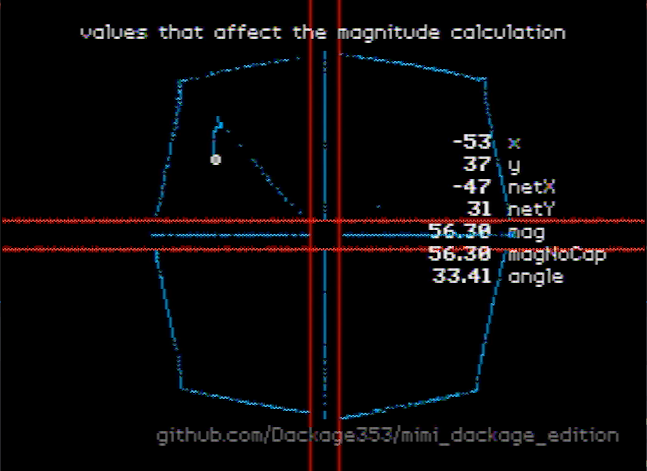
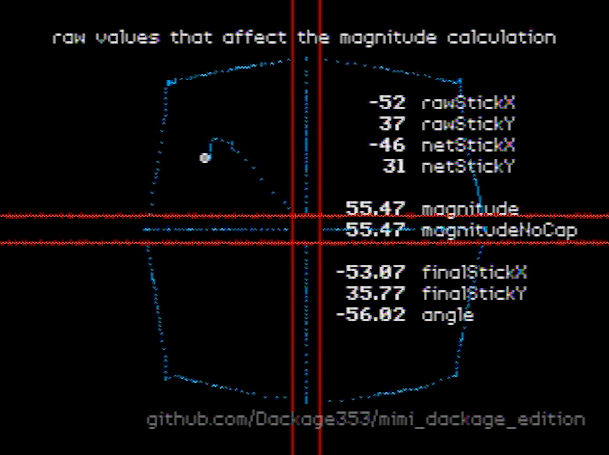
better variable names, fixed angle calculation, added finalStick values

diff --git a/src/range_live.c b/src/range_live.c
@@ -196,7 +196,7 @@ void display_sm64_magnitude_test() {
     int count = 0,
         line_height = 11,
         show_history = 1,
-        sz_history = 10240;
+        sz_history = 1024;
     text_set_line_height(line_height);
     display_context_t ctx;
 
@@ -206,7 +206,7 @@ void display_sm64_magnitude_test() {
     dfs_read(point, size, 1, f);
     dfs_close(f);
 
-    char * title_str = "values that affect the magnitude calculation";
+    char * title_str = "raw values that affect the magnitude calculation";
 
     struct Vec2 history[sz_history];
 
@@ -224,54 +224,69 @@ void display_sm64_magnitude_test() {
 
         controller_scan();
         struct controller_data cdata = get_keys_pressed();
-        char buf[128];
+        char buf[256];
 
         
-        struct Vec2 v = { cdata.c[0].x, cdata.c[0].y };
-        struct Vec2 vNoDeadZone = { cdata.c[0].x, cdata.c[0].y };
-        struct Vec2 netV = { 0, 0 };
 
-        if (vNoDeadZone.x < 8 && vNoDeadZone.x > -8) {
-            vNoDeadZone.x = 0;
+        struct Vec2 rawStick = { cdata.c[0].x, cdata.c[0].y };
+        struct Vec2 rawStickNoDeadzone = { cdata.c[0].x, cdata.c[0].y };
+        struct Vec2 netStick = { 0, 0 };
+
+        if (rawStickNoDeadzone.x < 8 && rawStickNoDeadzone.x > -8) {
+            rawStickNoDeadzone.x = 0;
         }
-        if (vNoDeadZone.y < 8 && vNoDeadZone.y > -8) {
-            vNoDeadZone.y = 0;
+        if (rawStickNoDeadzone.y < 8 && rawStickNoDeadzone.y > -8) {
+            rawStickNoDeadzone.y = 0;
         }
 
 
-        if (v.x <= -8) {
-            netV.x = v.x + 6;
+        if (rawStick.x <= -8) {
+            netStick.x = rawStick.x + 6;
         }
-        else if (v.x >= 8) {
-            netV.x = v.x - 6;
+        else if (rawStick.x >= 8) {
+            netStick.x = rawStick.x - 6;
         }
         
-        if (v.y <= -8) {
-            netV.y = v.y + 6;
+        if (rawStick.y <= -8) {
+            netStick.y = rawStick.y + 6;
         }
-        else if (v.y >= 8) {
-            netV.y = v.y - 6;
+        else if (rawStick.y >= 8) {
+            netStick.y = rawStick.y - 6;
         }
 
-        float magnitudeNoCap = sqrt(netV.x * netV.x + netV.y * netV.y);
+        float magnitudeNoCap = sqrt(netStick.x * netStick.x + netStick.y * netStick.y);
         float magnitude = magnitudeNoCap;
+
+        struct Vec2f finalStick = { 0, 0 };
+        
+        if (magnitudeNoCap > 0)
+        {
+            finalStick.x = netStick.x * 64 / magnitudeNoCap;
+            finalStick.y = netStick.y * 64 / magnitudeNoCap;
+        }
+
+
         if (magnitudeNoCap > 64.0f) { magnitude = 64.0f; }
 
-        float angle = atan2(abs(netV.y), abs(netV.x)) * 180 / M_PI;
+        float angle = get_angle(finalStick.x, finalStick.y);
 
-        snprintf(buf, sizeof(buf), "x\ny\nnetX\nnetY\nmag\nmagNoCap\nangle");
+        //rawStickX\nrawStickY\nstickXNoCap\nstickYNoCap\n\nmagnitude\nmagnitudeNoCap\n\nstickX\nstickY\nangle
+        //snprintf(buf, sizeof(buf), "%3d\n%3d\n%3d\n%3d\n\n%.2f\n%.2f\n\n%.2f\n%.2f\n%.2f", rawStick.x, rawStick.y, netStick.x, netStick.y, magnitude, magnitudeNoCap, finalStick.x, finalStick.y, angle);
+
+        snprintf(buf, sizeof(buf), "rawStickX\nrawStickY\nnetStickX\nnetStickY\n\nmagnitude\nmagnitudeNoCap\n\nfinalStickX\nfinalStickY\nangle");
         text_set_font(FONT_MEDIUM);
-        text_draw(ctx, 250, 80 - line_height, buf, ALIGN_LEFT);
+        text_draw(ctx, 220, 60 - line_height, buf, ALIGN_LEFT);
 
         text_set_font(FONT_BOLD);
-        snprintf(buf, sizeof(buf), "%3d\n%3d\n%3d\n%3d\n%.2f\n%.2f\n%.2f", v.x, v.y, netV.x, netV.y, magnitude, magnitudeNoCap, angle);
-        text_draw(ctx, 242, 80 - line_height, buf, ALIGN_RIGHT);
+        snprintf(buf, sizeof(buf), "%3d\n%3d\n%3d\n%3d\n\n%.2f\n%.2f\n\n%.2f\n%.2f\n%.2f", rawStick.x, rawStick.y, netStick.x, netStick.y, magnitude, magnitudeNoCap, finalStick.x, finalStick.y, angle);
+        text_draw(ctx, 212, 60 - line_height, buf, ALIGN_RIGHT);
 
+        
 
         if (show_history == 1) {
             int history_update = 0;
-            bool hasChanged = v.x != history[0].x || v.y != history[0].y;
-            bool isNotInDeadzone = abs(v.x) >= 8 || abs(v.y) >= 8;
+            bool hasChanged = rawStick.x != history[0].x || rawStick.y != history[0].y;
+            bool isNotInDeadzone = abs(rawStick.x) >= 8 || abs(rawStick.y) >= 8;
 
             if (hasChanged && isNotInDeadzone) {
                 history_update = 1;
@@ -279,7 +294,7 @@ void display_sm64_magnitude_test() {
                     count++;
                 }
 
-                history[0] = vNoDeadZone;
+                history[0] = rawStickNoDeadzone;
             }
 
             for (int i = count; i > 0; i--) {
@@ -290,8 +305,8 @@ void display_sm64_magnitude_test() {
             }
         }
 
-        int x = smax(0, smin(320, vNoDeadZone.x + 158));
-        int y = smax(0, smin(240, (vNoDeadZone.y * -1) + 118));
+        int x = smax(0, smin(320, rawStickNoDeadzone.x + 158));
+        int y = smax(0, smin(240, (rawStickNoDeadzone.y * -1) + 118));
         graphics_draw_sprite(ctx, x, y, point);
 
 

diff --git a/src/util.h b/src/util.h
@@ -8,6 +8,13 @@ struct Vec2
     int y;
 };
 
+
+struct Vec2f
+{
+    float x;
+    float y;
+};
+
 static inline int smin(int a, int b)
 {
     return a > b ? b : a;
